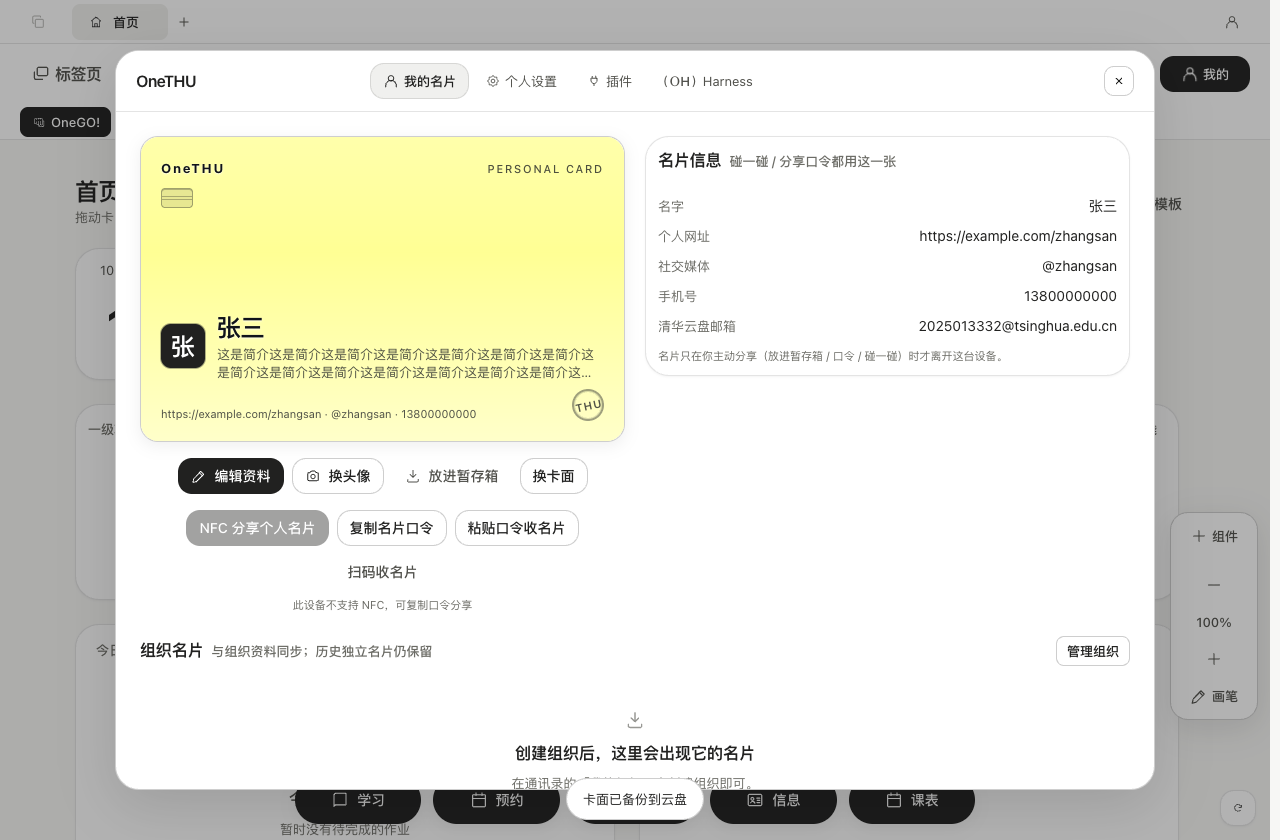
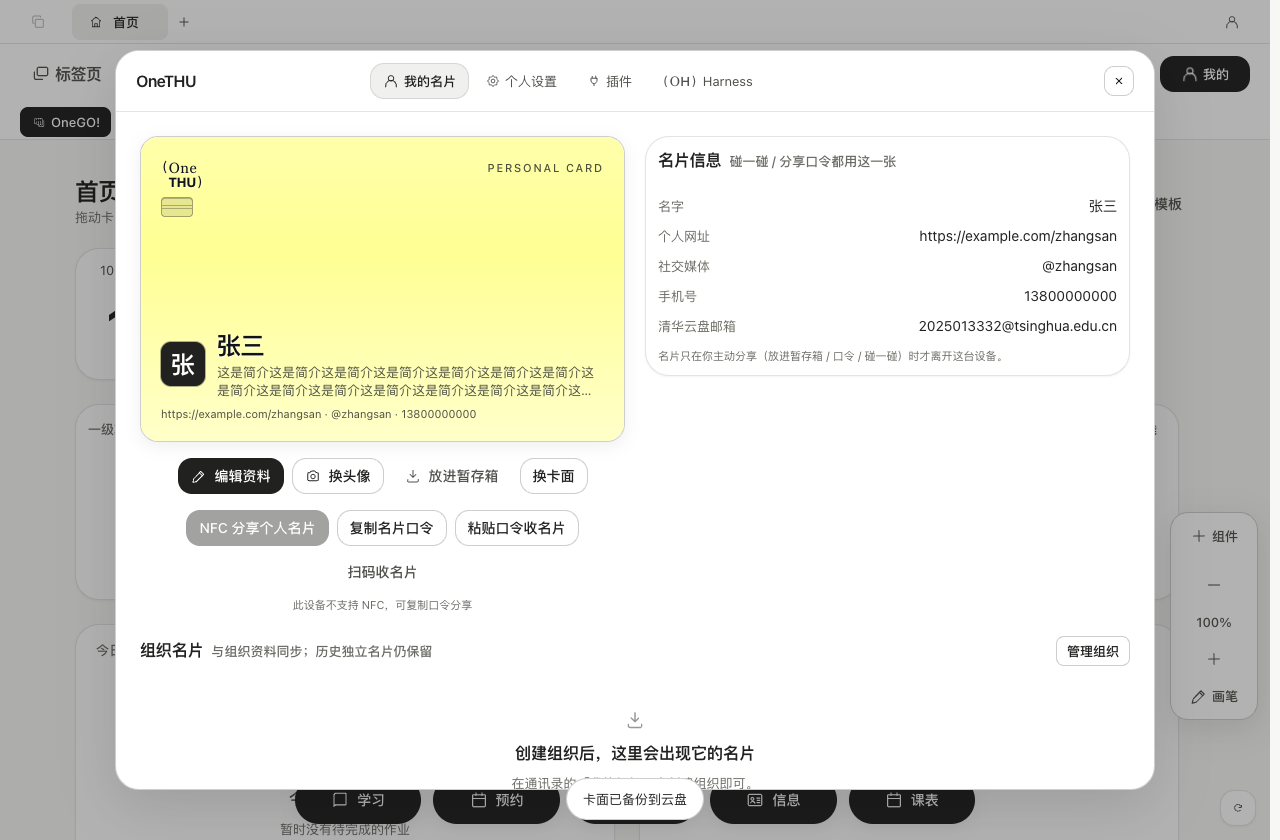
feat(card): 名片只留一处品牌，改用标准上下两排 (One / THU) 字标
用户：「把所有卡片上下的 OneTHU 只留下一个，并且换成我们的标准 logo」，
随后确认要「上下两排那个」。

- 品牌标识抽成 `components/BrandLogo.tsx`（含主题 logo 替换逻辑），Layout 复用并继续导出
  BrandLogo，登录页/顶栏/名片共用同一份。
- IdentityCard：顶部 `OneTHU` 文字换成标准 `<BrandLogo>`（保留 PERSONAL CARD/ORGANIZATION
  小字），底部圆形 `THU` 钢印整块去掉——一张卡只有一处品牌。
- 卡片里的字标沿用全局上下两排 `(One / THU)` 版式，只把颜色改成跟随卡片字色
  （有封面时由 has-cover 覆盖成白/黑）。
- 回归：namecard 23 条全绿；pnpm guard 全绿；截图 card-logo-default / card-logo-cover。

Changed region(s): [[0.125, 0.3714, 0.4688, 0.4952], [0.375, 0.1857, 0.4688, 0.2167], [0.125, 0.1857, 0.1875, 0.2476]]

diff --git a/apps/desktop/src/components/Layout.tsx b/apps/desktop/src/components/Layout.tsx
@@ -1,3 +1,4 @@
+import { BrandLogo } from "./BrandLogo.js";
 import { useExperienceMode, useIsSimpleLike, useSimpleRoute } from "../state/experienceMode.js";
 import { SimpleHeader } from "./SimpleExperience.js";
 import { IconBtn, IconUser } from "@onethu/gui";
@@ -131,34 +132,7 @@ function usePluginNavEntries(): Array<{ page: Page; label: string; icon: (p: obj
   }));
 }
 
-/** (One / THU) 品牌标识：五列网格，括号代码体，One 衬线紧凑撑满与 THU 逐列对齐。
- *  主题插件可整体替换（theme.logo 提供 inline SVG 时优先渲染）。 */
-export function BrandLogo({ size = 14 }: { size?: number }) {
-  const themed = useThemes().logoSvg;
-  if (themed) {
-    return (
-      <span
-        className="brand-logo brand-logo-themed"
-        style={{ fontSize: size, display: "inline-flex", alignItems: "center" }}
-        aria-label="OneTHU"
-        /* 主题受信代码，同插件边界 */
-        dangerouslySetInnerHTML={{ __html: themed }}
-      />
-    );
-  }
-  return (
-    <span className="brand-logo" style={{ fontSize: size }} aria-label="OneTHU">
-      <span className="p">(</span>
-      <span className="word"><i>O</i><i>n</i><i>e</i></span>
-      <span />
-      <span className="p"> </span>
-      <span className="u">T</span>
-      <span className="u">H</span>
-      <span className="u">U</span>
-      <span className="p">)</span>
-    </span>
-  );
-}
+export { BrandLogo } from "./BrandLogo.js";
 
 /** 顶栏：首页 Logo（点击回首页，恒在不变）+ 标签条 + 搜索 + 设置齿轮（恒在不变）。
  *  滚过 8px 浮起阴影（沿用旧顶栏的层次手法）。 */

diff --git a/apps/desktop/src/components/BrandLogo.tsx b/apps/desktop/src/components/BrandLogo.tsx
@@ -1,0 +1,32 @@
+import type { ReactNode } from "react";
+import { useThemes } from "../state/theme.js";
+
+/** (One / THU) 品牌标识：五列网格，括号代码体，One 衬线紧凑撑满与 THU 逐列对齐。
+ *  主题插件可整体替换（theme.logo 提供 inline SVG 时优先渲染）。
+ *  卡片、登录页、顶栏共用这一份，避免各处再写一遍品牌字。 */
+export function BrandLogo({ size = 14, className }: { size?: number; className?: string }): ReactNode {
+  const themed = useThemes().logoSvg;
+  if (themed) {
+    return (
+      <span
+        className={`brand-logo brand-logo-themed${className ? " " + className : ""}`}
+        style={{ fontSize: size, display: "inline-flex", alignItems: "center" }}
+        aria-label="OneTHU"
+        /* 主题受信代码，同插件边界 */
+        dangerouslySetInnerHTML={{ __html: themed }}
+      />
+    );
+  }
+  return (
+    <span className={`brand-logo${className ? " " + className : ""}`} style={{ fontSize: size }} aria-label="OneTHU">
+      <span className="p">(</span>
+      <span className="word"><i>O</i><i>n</i><i>e</i></span>
+      <span />
+      <span className="p"> </span>
+      <span className="u">T</span>
+      <span className="u">H</span>
+      <span className="u">U</span>
+      <span className="p">)</span>
+    </span>
+  );
+}

diff --git a/apps/desktop/src/components/IdentityCard.tsx b/apps/desktop/src/components/IdentityCard.tsx
@@ -9,6 +9,7 @@
  */
 import type { ReactNode } from "react";
 import type { OrgCard, PersonalCard } from "../state/nameCard.js";
+import { BrandLogo } from "./BrandLogo.js";
 
 export type IdentityCardVariant = "deck" | "hero" | "detail";
 
@@ -52,7 +53,8 @@ export function IdentityCard({
         {Array.from(name)[0]}
       </span>
       <div className="identity-card-top">
-        <span className="identity-card-brand">OneTHU</span>
+        {/* 品牌只留这一处：标准 (One / THU) logo，底部钢印那枚 THU 已去掉 */}
+        <span className="identity-card-brand"><BrandLogo size={variant === "deck" ? 10 : 13} /></span>
         <span className="identity-card-kind">{organization ? "ORGANIZATION" : "PERSONAL CARD"}</span>
       </div>
       <div className="identity-card-middle">
@@ -74,9 +76,6 @@ export function IdentityCard({
       <div className="identity-card-bottom">
         <span className="identity-card-details">
           {details.length ? details.join(" · ") : "点击编辑，写下你的介绍"}
-        </span>
-        <span className="identity-seal" aria-hidden="true">
-          THU
         </span>
       </div>
     </article>

diff --git a/packages/gui/src/recipes/contacts.css b/packages/gui/src/recipes/contacts.css
@@ -166,11 +166,14 @@ html[data-og-scheme="dark"] .identity-card {
   min-width: 0;
 }
 .identity-card-brand {
-  font-size: var(--og-text-label);
-  font-weight: var(--og-weight-bold);
-  letter-spacing: 0.14em;
+  display: inline-flex;
+  align-items: center;
   color: var(--og-content-1);
 }
+/* 卡片里的标准品牌 logo：就是全局那个上下两排的 (One / THU) 字标，
+   颜色跟随卡片字色（封面方案下由 .has-cover 覆盖）。 */
+.identity-card .brand-logo { color: inherit; }
+.identity-card.has-cover .identity-card-brand .brand-logo { color: var(--og-c-cover-ink-strong) !important; }
 .identity-card-kind {
   flex: none;
   font-size: var(--og-text-micro);
